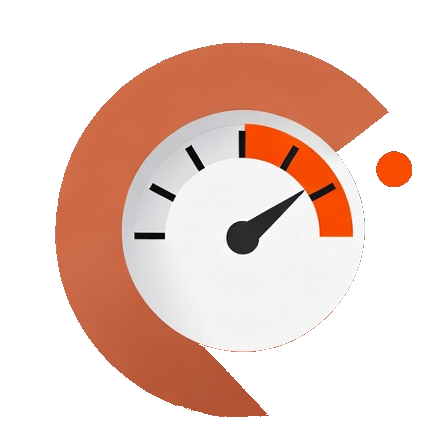
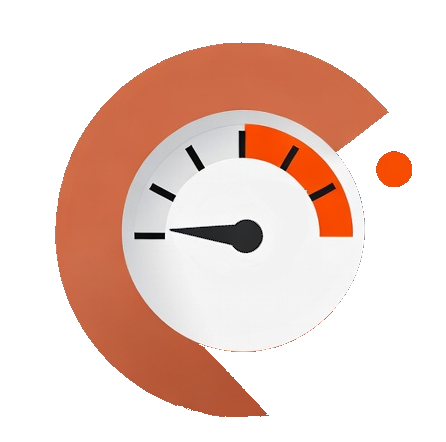
Add files via upload

Changed region(s): [[0.3789, 0.4412, 0.6704, 0.5882], [0.6704, 0.4118, 0.6996, 0.4412]]

diff --git a/background.js b/background.js
@@ -1,0 +1,50 @@
+const START_PEAK_UTC = 13;
+const END_PEAK_UTC   = 19;
+
+function isPeakHour() {
+    const now = new Date();
+    
+    const localHour = now.getHours();        
+    const utcHour   = now.getUTCHours();     
+
+    const offset = localHour - utcHour;
+    
+    let peakStartLocal = (START_PEAK_UTC + offset + 24) % 24;
+    let peakEndLocal   = (END_PEAK_UTC + offset + 24) % 24;
+
+    if (peakEndLocal < peakStartLocal) {
+        return localHour >= peakStartLocal || localHour < peakEndLocal;
+    }
+
+    return localHour >= peakStartLocal && localHour < peakEndLocal;
+}
+
+function updateIcon() {
+    const isPeak = isPeakHour();
+
+    if (isPeak) {
+        chrome.action.setIcon({
+            path: {
+                "16":  "icon-peak.png",
+                "48":  "icon-peak.png",
+                "128": "icon-peak.png"
+            }
+        });
+    } else {
+        chrome.action.setIcon({
+            path: {
+                "16":  "icon.png",
+                "48":  "icon.png",
+                "128": "icon.png"
+            }
+        });
+    }
+}
+
+updateIcon();
+setInterval(updateIcon, 300000);
+
+chrome.alarms.create("updateIcon", { periodInMinutes: 1 });
+chrome.alarms.onAlarm.addListener((alarm) => {
+    if (alarm.name === "updateIcon") updateIcon();
+});